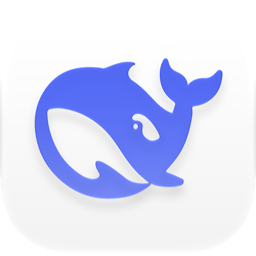
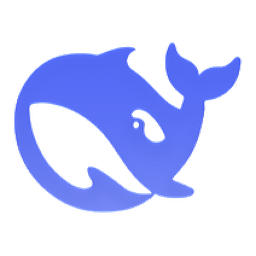
feat: 桌宠图标只保留蓝色鲸鱼本体
- 用 PIL 从应用图标抠出鲸鱼：白底方块透明化 + 边缘光晕清理 + 裁剪到本体
  （原图 76% 是白色背景，鲸鱼仅占中部 188x141）
- 阴影从 box-shadow（方框）改为 drop-shadow（跟随鲸鱼轮廓），移除方块圆角
- 清理被调试运行污染的 UserDefaults（petIconSize 70、窗口位置屏幕外）
- 像素验证：桌宠区域蓝色 22-52px/行、白色 0 —— 白底彻底去除

Changed region(s): [[0.0312, 0.1562, 0.9688, 0.8438], [0.5, 0.4062, 0.6562, 0.5625]]

diff --git a/companion/Resources/pet/pet.css b/companion/Resources/pet/pet.css
@@ -225,11 +225,11 @@ html, body {
 }
 
 #petIcon {
-  /* 尺寸由 JS 接管（applyIconSize），此处为默认兜底值 */
+  /* 尺寸由 JS 接管（applyIconSize），此处为默认兜底值。
+     素材已抠出白底：仅蓝色鲸鱼 + 透明背景，阴影用 drop-shadow 跟随轮廓 */
   width: 120px;
   height: 120px;
-  border-radius: 28px;
-  box-shadow: 0 10px 30px rgba(30, 80, 180, 0.28);
+  filter: drop-shadow(0 6px 16px rgba(30, 80, 180, 0.35));
   -webkit-user-drag: none;
   pointer-events: none;
 }
@@ -343,7 +343,7 @@ html, body {
 
 /* 离线：灰阶 + 缓慢闪烁 */
 .stage.pet-offline .pet { animation: petOffline 2.4s ease-in-out infinite; }
-.stage.pet-offline #petIcon { filter: grayscale(1); opacity: 0.55; }
+.stage.pet-offline #petIcon { filter: grayscale(1) drop-shadow(0 6px 16px rgba(30, 80, 180, 0.35)); opacity: 0.55; }
 @keyframes petOffline {
   0%, 100% { transform: translateX(-50%) translateY(0); }
   50% { transform: translateX(-50%) translateY(-4px); }
